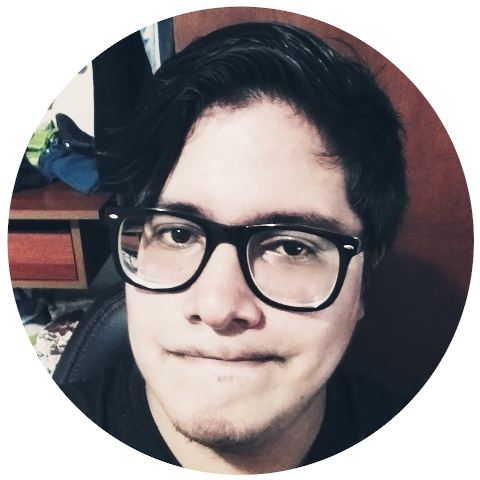
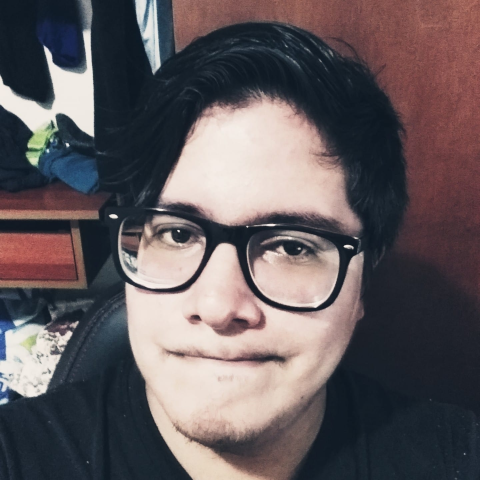
Apply Dark Mode

Changed region(s): [[0.0, 0.0, 1.0, 1.0]]

diff --git a/res/styles/WebsiteController.css b/res/styles/WebsiteController.css
@@ -2,17 +2,18 @@ body {
     margin: 0px;
     font-family: Arial;
     font-size: 14px;
-    color: #999999;
+    color: white;
+    background: #212121;
 }
 
 ::selection {
-    background: #6b9aae;
-    color: white;
+    background: #14ffec;
+    color: #0d7377;
 }
 
 a {
     font-size: 1.15em;
-    color: #999999;
+    color: white;
     text-decoration: none;
     -webkit-transition: color 0.15s ease-in-out;
     -moz-transition: color 0.15s ease-in-out;
@@ -21,7 +22,7 @@ a {
 }
 
 a:hover {
-    color: #6b9aae;
+    color: #0d7377;
 }
 
 a:active {
@@ -40,7 +41,7 @@ a:active {
     border: 0px;
     border-radius: 50%;
     outline: 0px;
-    background-color: #6b9aae;
+    background-color: #0d7377;
     background-image: url(../images/go-up-arrow.png);
     background-repeat: no-repeat;
     background-position: center center;
@@ -53,11 +54,11 @@ a:active {
 }
 
 .scrollUpButton:hover {
-    background-color: #98bdcd;
+    background-color: #14ffec;
 }
 
 .scrollUpButton:active {
-    background-color: #6b9aae;
+    background-color: #0d7377;
     -webkit-transition: background-color 0.1s ease-in-out;
     -moz-transition: background-color 0.1s ease-in-out;
     -o-transition: background-color 0.1s ease-in-out;
@@ -152,7 +153,7 @@ a:active {
     border-top: 0px;
     border-bottom: 0px;
     border-left: 0px;
-    border-color: #999999;
+    border-color: #323232;
     float: left;
     overflow: hidden;
 }
@@ -201,7 +202,7 @@ a:active {
     width: 100%;
     min-width: 1000px;
     border-bottom: 1px solid;
-    border-color: #999999;
+    border-color: #323232;
     overflow: hidden;
 }
 
@@ -249,6 +250,7 @@ a:active {
 
 .presentationLeftPhoto {
     margin: 15px;
+    border-radius: 50%;
 }
 
 .presentationRightMessage {
@@ -261,7 +263,7 @@ a:active {
 .presentationRightMessageTitle {
     font-style: normal;
     font-weight: bold;
-    color: #6b9aae;
+    color: #0d7377;
 }
 
 
@@ -465,13 +467,13 @@ a:active {
 }
 
 .aboutContentSheetMessageHighlight {
-    color: #6b9aae;
+    color: #0d7377;
 }
 
 .aboutContentSheetSkillsTitle {
     font-size: 1.75em;
     font-weight: bold;
-    color: black;
+    color: white;
     overflow: hidden;
 }
 
@@ -649,7 +651,7 @@ a:active {
     height: 269px;
     min-width: 1000px;
     border-top: 1px solid;
-    border-color: #999999;
+    border-color: #323232;
     overflow: hidden;
 }
 
@@ -658,7 +660,7 @@ a:active {
     padding: 15px;
     width: 970px;
     font-size: 1.1em;
-    color: #888888;
+    color: white;
     text-align: right;
     overflow: hidden;
 }

diff --git a/index.html b/index.html
@@ -66,9 +66,9 @@
         <div class="navItem">
           <a href="contact" id="nav3" data-targetId="contact" data-scrollSpeed="slow">CONTACT</a>
         </div>
-        <div class="navItem">
+        <!--<div class="navItem">
           <a href="https://edgaralexanderfr.wordpress.com/">BLOG</a>
-        </div>
+        </div>-->
         <div class="navMobileItem">
           <a href="/res/documents/google-activate-mobile-apps-programming-certificate.pdf" target="_blank">CERT. IN M.A.P.</a>
         </div>
@@ -78,9 +78,9 @@
         <div class="navLastItem">
           <a href="es.html" style="font-weight: bold;">VER EN ESPA&Ntilde;OL</a>
         </div>
-        <a href="http://salzuela.tk/" target="_blank">
+        <!--<a href="http://salzuela.tk/" target="_blank">
           <img class="navIcon" src="/res/images/salzuela.png" width="48" height="48" alt="Salzuela" title="Salzuela" />
-        </a>
+        </a>-->
         <a href="http://stackoverflow.com/users/2460628/edgar-alexander" target="_blank">
           <img class="navIcon" src="/res/images/stackoverflow.png" width="48" height="48" alt="StackOverflow" title="Stack Overflow" />
         </a>

diff --git a/es.html b/es.html
@@ -66,9 +66,9 @@
         <div class="navItem">
           <a href="contact" id="nav3" data-targetId="contact" data-scrollSpeed="slow">CONTACTO</a>
         </div>
-        <div class="navItem">
+        <!--<div class="navItem">
           <a href="https://edgaralexanderfr.wordpress.com/">BLOG</a>
-        </div>
+        </div>-->
         <div class="navMobileItem">
           <a href="/res/documents/google-activate-mobile-apps-programming-certificate.pdf" target="_blank">CERT. EN P.A.M.</a>
         </div>
@@ -78,9 +78,9 @@
         <div class="navLastItem">
           <a href="./" style="font-weight: bold;">VIEW IN ENGLISH</a>
         </div>
-        <a href="http://salzuela.tk/" target="_blank">
+        <!--<a href="http://salzuela.tk/" target="_blank">
           <img class="navIcon" src="/res/images/salzuela.png" width="48" height="48" alt="Salzuela" title="Salzuela" />
-        </a>
+        </a>-->
         <a href="http://stackoverflow.com/users/2460628/edgar-alexander" target="_blank">
           <img class="navIcon" src="/res/images/stackoverflow.png" width="48" height="48" alt="StackOverflow" title="Stack Overflow" />
         </a>

diff --git a/res/styles/DonateController.css b/res/styles/DonateController.css
@@ -1,6 +1,23 @@
 ::selection {
-    background: #6b9aae;
+    background: #14ffec;
+    color: #0d7377;
+}
+
+body {
     color: white;
+    background: #212121;
+}
+
+a {
+    color: white;
+}
+
+a:hover {
+    color: #0d7377;
+}
+
+a:active {
+    color: #5d8393;
 }
 
 div.top-margin {
@@ -16,7 +33,7 @@ div.bottom-margin {
 }
 
 .green {
-    color : #6b9aae;
+    color : #0d7377;
 }
 
 .title-text {
